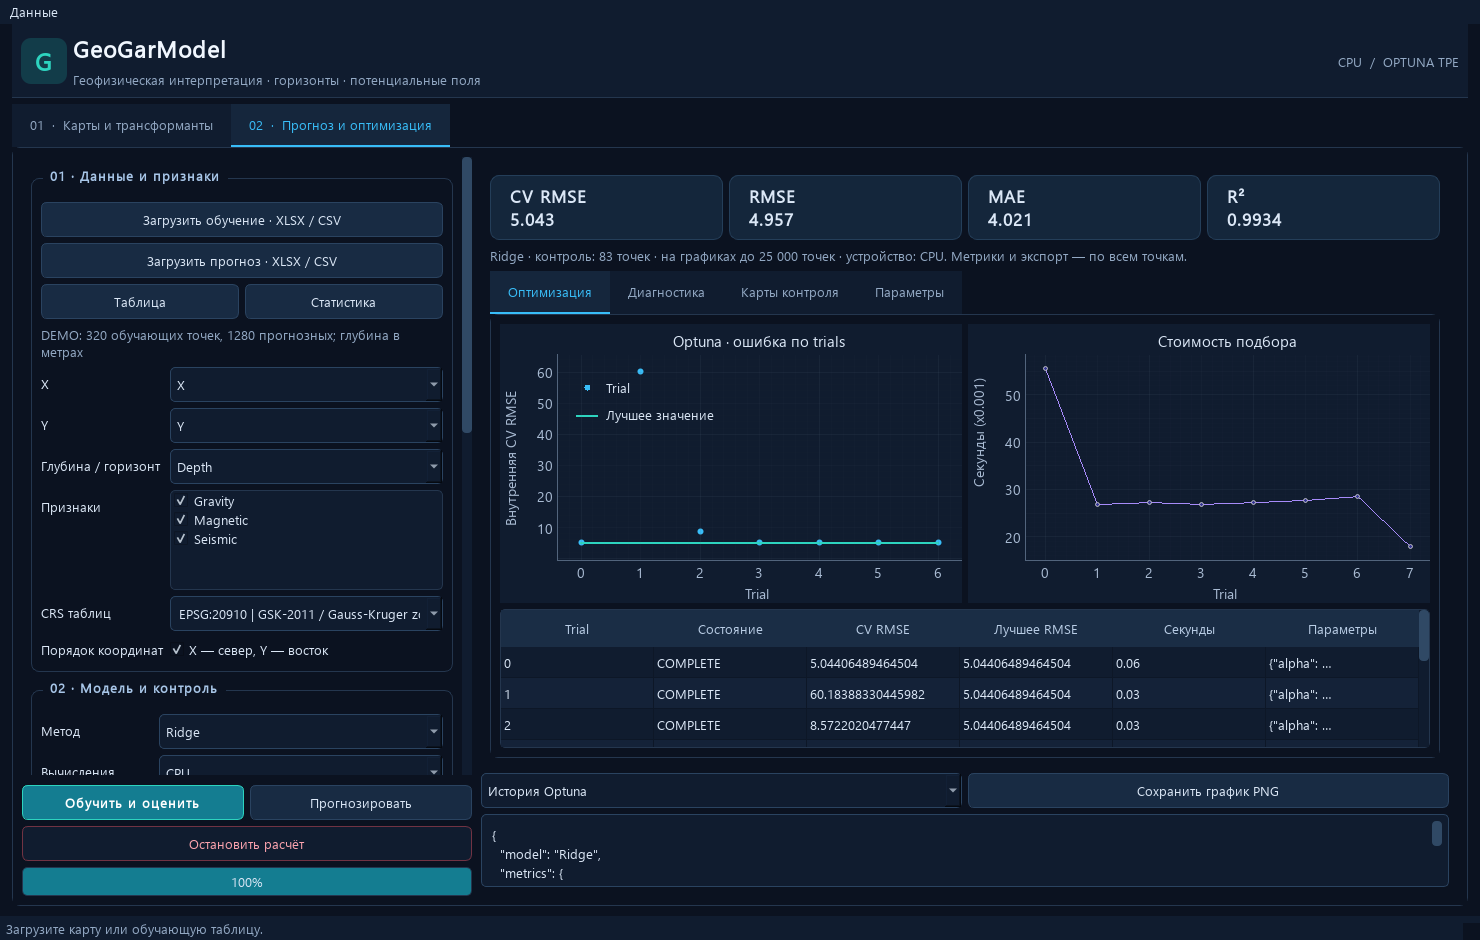
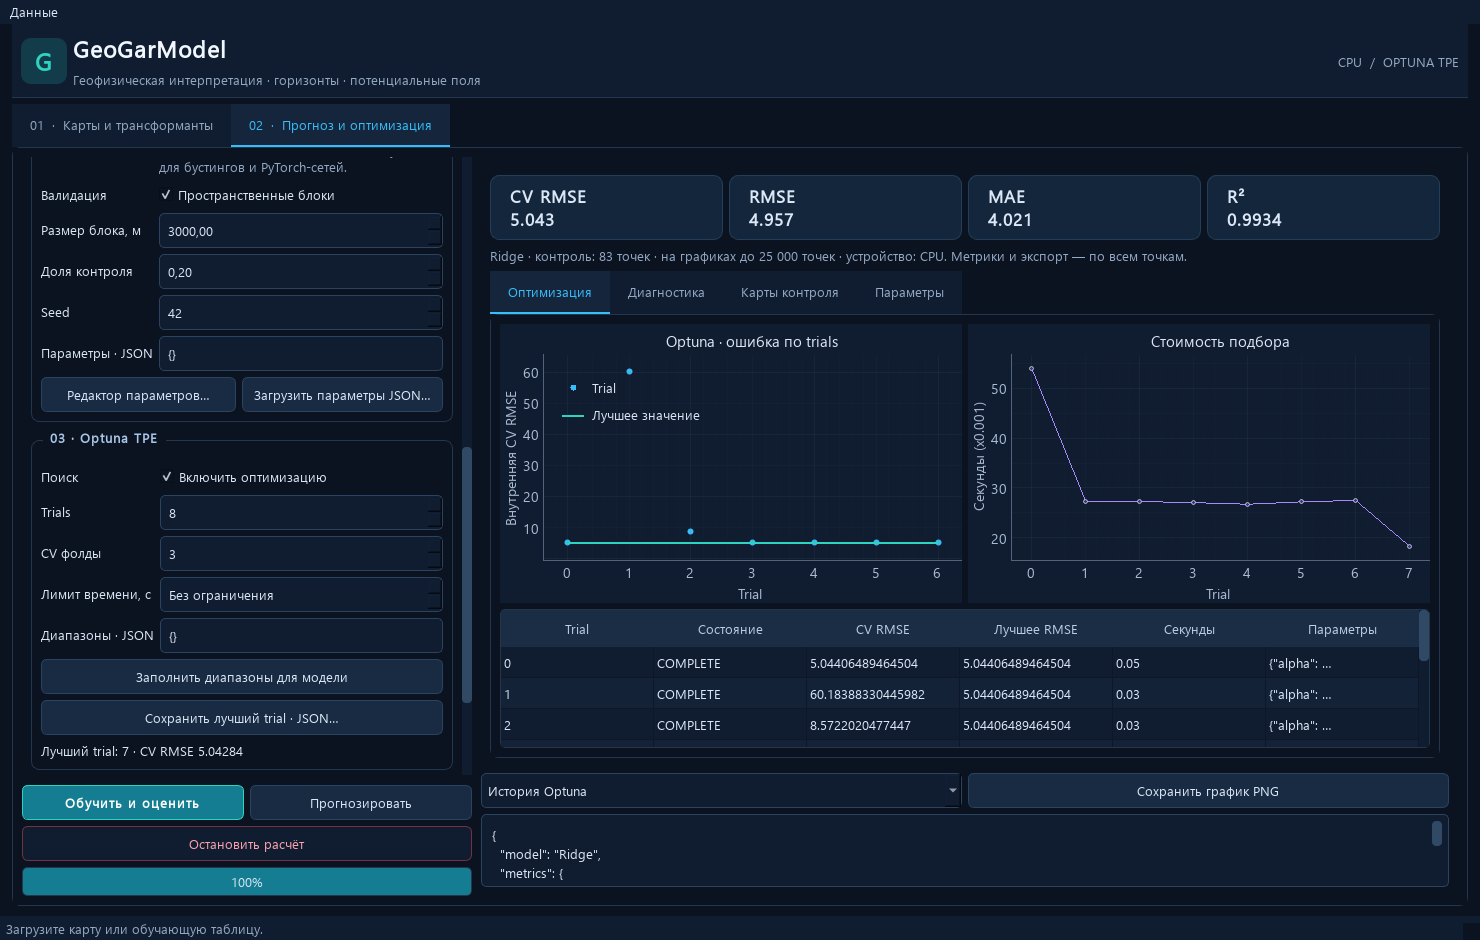
docs: explain parameter snapshots and potential-field import limitations

diff --git a/docs/MODERNIZATION.md b/docs/MODERNIZATION.md
@@ -1,5 +1,44 @@
 # GeoGarModel 2.1: руководство
 
+## Импорт поля и условия расчёта трансформант
+
+Таблица, загруженная как обучение/прогноз на ML-вкладке, не становится картой.
+На вкладке карт используйте «Таблица XYZ → регулярная сетка»: текущий импорт берёт
+первые два столбца как координаты и **третий столбец как единственное поле**.
+Подготовьте XLSX/CSV с заголовками X, Y, поле. Остальные признаки не рассчитываются
+пакетно. Точки интерполируются линейно на сетку 200×200; вне выпуклой оболочки
+остаются пропуски. CRS и порядок X/Y берутся из настроек таблиц на ML-вкладке:
+по умолчанию X — север, Y — восток. Проверьте их перед импортом.
+
+После импорта ZMAP выберите слой и откройте «CRS и единицы карты…»: укажите
+фактическую зону/CRS, координаты **m**, единицы поля (например mGal или nT).
+Сам ASCII ZMAP в текущем импорте этих метаданных не предоставляет. Выбор CRS
+описывает координаты файла, а не перепроецирует их.
+
+Расчёт требует регулярной сетки в метрах. Производные и продолжение вверх
+вычисляются через 2D FFT: множители ikx, iky, k, k² и exp(−kh) соответственно,
+где k = sqrt(kx² + ky²), а вертикальная производная положительна вниз.
+Пропуски временно заполняются ближайшими узлами, сетка отражается по краям
+на 25% размера с каждой стороны; после обратного FFT исходная маска восстанавливается.
+Горизонтальный градиент, аналитический сигнал и Tilt объединяют производные.
+Полиномиальный тренд рассчитывается отдельно методом наименьших квадратов.
+Параметр длины волны относится к гауссову фильтру, высота — к продолжению вверх.
+
+Текущее ограничение: если пусто более 50% узлов, расчёт отклоняется. Штатный
+`Zmap_2.dat` (447×486) имеет лишь около 21% заполненных узлов. Даже обрезка до
+рамки данных оставляет около 31% заполнения: требуется более локальная рабочая
+область или заранее подготовленная сетка. Ближайшее заполнение и отражение не
+устраняют краевых артефактов, особенно у производных. Автоматическая обработка
+больших нерегулярных масок и выбор произвольного столбца XLSX пока не реализованы.
+
+## Оформление окна Windows
+
+На Windows 11 заголовок, текст и тонкая граница окна используют тёмную палитру
+через [официальный DWM API](https://learn.microsoft.com/en-us/windows/win32/api/dwmapi/ne-dwmapi-dwmwindowattribute).
+Запрашиваются скруглённые углы; их отображение определяет Windows. Системные кнопки,
+Snap и изменение размера сохраняются. На неподдерживаемых системах остаётся
+стандартная рамка. Общесистемная тема не изменяется.
+
 ## Установка и структура
 
 Python 3.11–3.13; Windows — основная платформа. Запуск из корня checkout:

diff --git a/docs/OPTUNA.md b/docs/OPTUNA.md
@@ -50,6 +50,33 @@ GPU. Параллельные многопроцессные studies и возо
 
 ## Диапазоны и фиксированные параметры
 
+Для ручного обучения откройте «Редактор параметров…» в блоке «Модель и контроль».
+Введите JSON, например для Random Forest:
+`{"n_estimators": 500, "max_depth": 12, "min_samples_leaf": 3}`.
+Для Ridge: `{"alpha": 0.5, "fit_intercept": false}`.
+Сохранение проверяет JSON и создание выбранной модели. Допустимость значений
+дополнительно проверяется библиотекой при обучении. Отключите Optuna, чтобы обучить
+модель с этими параметрами без подбора. Пустой объект `{}` использует настройки
+приложения и библиотеки. Редактор меняет то же значение, что поле JSON.
+
+«Сохранить лучший trial · JSON…» работает после первого **COMPLETE** trial:
+во время поиска, финального переобучения, после завершения, ошибки или отмены.
+Экспорт не останавливает поиск. Снимок фиксируется при нажатии кнопки; последующие
+улучшения не меняют сохранённый файл. PRUNED и FAIL не участвуют в выборе лучшего.
+Если COMPLETE ещё нет, приложение объяснит, почему экспорт пока невозможен.
+
+Файл содержит модель, объединённые фиксированные и подобранные параметры,
+номер лучшего trial (в JSON с нуля), CV RMSE, число обработанных trials и настройки
+запуска. Обученные веса и study для возобновления поиска в него не включены.
+До завершения всего расчёта внешняя контрольная оценка ещё не готова.
+
+«Загрузить параметры JSON…» принимает этот снимок, прежний «Отчёт JSON» и простой
+JSON-объект параметров. Снимок/отчёт выбирает свою модель; простой объект применяется
+к текущей модели. После загрузки Optuna выключается, параметры можно редактировать.
+CPU/GPU, seed, признаки и разбиение автоматически не переключаются: проверьте их
+перед новым обучением. Во время расчёта редактирование/импорт блокируются; экспорт
+остаётся доступен. Файл гиперпараметров не является сериализованной моделью.
+
 Поле «Параметры · JSON» задаёт параметры модели. «Диапазоны · JSON» задаёт поиск;
 при совпадении имени найденное значение заменяет фиксированное.
 

diff --git a/README.md b/README.md
@@ -31,10 +31,13 @@ python -m pip install -e ".[boosting,neural,geo]"
   MLP; опционально XGBoost, LightGBM, CatBoost, residual MLP и табличный Transformer.
 - Optuna TPE: готовые и пользовательские диапазоны, внутренняя CV, pruning,
   история trials, найденные параметры и отдельный пространственный контроль.
+- Ручной редактор гиперпараметров, загрузка JSON/отчёта; сохранение лучшего
+  завершённого trial в JSON во время поиска и после остановки.
 - Выбор CPU/GPU у поддерживаемых моделей. Сам TPE выполняется на CPU;
   GPU-обучение требует совместимой сборки библиотеки и драйвера.
 - Современная Qt-панель: живые графики RMSE, длительности, параметры,
   crossplot, распределение невязок и карты контроля. Экспорт CSV/JSON/PNG.
+  На Windows 11 — тёмная системная рамка и заголовок окна.
 - Карты ZMAP/XYZ/NPZ: растровое отображение, изолинии, отмывка, обрезка,
   векторные наложения, экспорт. Выбор зон ГСК-2011 / Гаусса—Крюгера.
 - Производные X/Y/Z/ZZ, горизонтальный градиент, аналитический сигнал, tilt,

diff --git a/docs/ARCHITECTURE.md b/docs/ARCHITECTURE.md
@@ -4,6 +4,8 @@
 geogarmodel/
   app.py            PyQt5: загрузка, формы, фоновые задания, экспорт
   theme.py          палитра, стили, оформление Matplotlib
+  window_theme.py   системная тёмная рамка Windows через DWM
+  parameter_files.py JSON параметров, снимок лучшего завершённого trial
   dashboard.py      PyQtGraph: Optuna, параметры, диагностика, карты контроля
   models.py         схема данных, внешнее разбиение, обучение, итоговая модель
   optimization.py   TPE, пространства поиска, внутренняя CV, pruning, история
